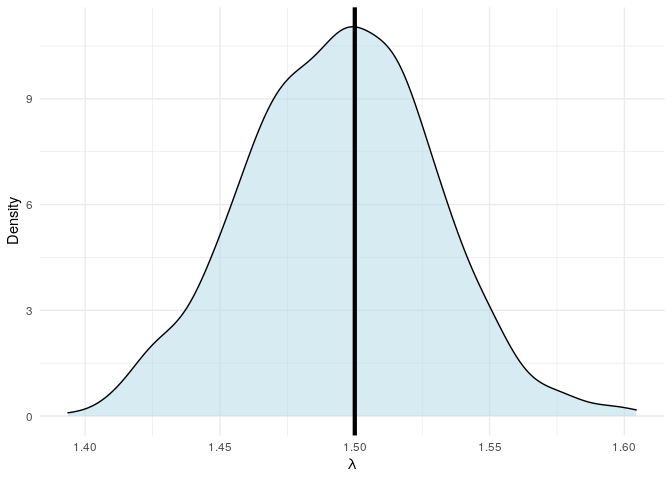
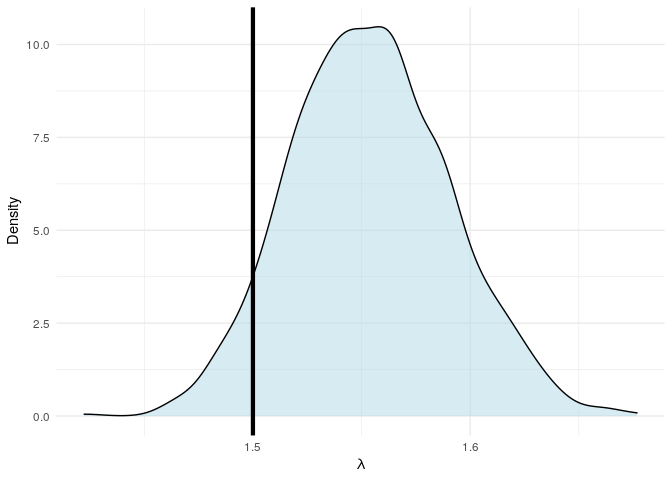
adding bayesian copula

diff --git a/README.md b/README.md
@@ -58,10 +58,10 @@ fit_hrc(u = data[,1], v = data[,2], initial_est = 1)
 ```
 
     ## $estimate
-    ## [1] 1.474876
+    ## [1] 1.508459
     ## 
     ## $ci
-    ## [1] 1.380804 1.568948
+    ## [1] 1.413524 1.603394
 
 ### Esimating generalised pareto marings and dependence parameter of a Hüsler-Reiss copula jointly
 
@@ -133,12 +133,14 @@ data.frame(actual = c(2, -0.1, 1.3, -0.1, 1.5),
 
 ![](README_files/figure-gfm/example4-1.png)<!-- -->
 
+### We can fit a bi-variate copula using a bayesian framework.
+
 ``` r
 data = rhr(n=2000, lambda = 1.5)
 my_bayesian_fit = fit_hrc_bay(data[,1], 
                               data[,2],
                               chains = 2, 
-                              prior_mean = 1,
+                              prior_mean = 1, # mean of normal prior
                               prior_sd = 2,
                               cores = 2, # !! Make sure you have enough cores !!
                               iter = 2000,
